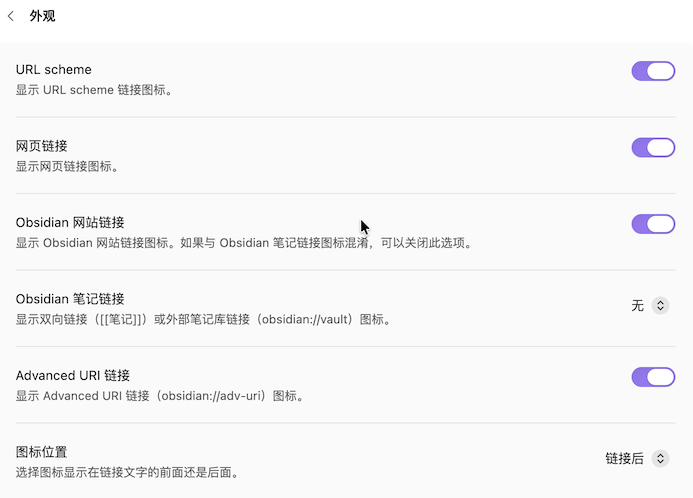
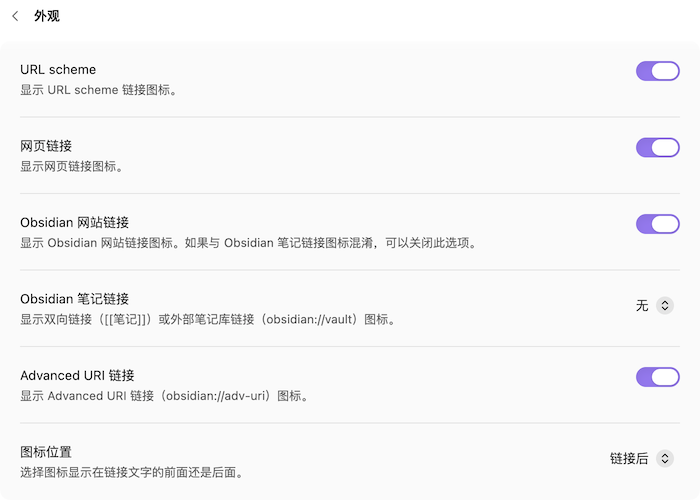
docs: update README

diff --git a/docs/README_zh.md b/docs/README_zh.md
@@ -91,19 +91,16 @@
 
 ### 编辑图标
 - 你可以点击图标旁边的下载按钮来下载图标。
-- 如果你误将暗色图标上传到亮色区域，`复制到暗色` 将派上用场。
-- 如果用不到暗色图标，你可以单独删除它。
+- 如果你误将暗色图标上传到亮色区域，`复制到暗色` 按钮将派上用场。
+- 如果用不到暗色图标，你可以使用 `移除` 按钮删除它。
 
 ![edit-icon_zh.png](images/edit-icon_zh.png)
 
 ## 设置
-默认情况下，URL Scheme 和网站图标均已启用。你可以在插件设置中禁用其中任意一项。
-
-插件提供了两种不同的 Obsidian 图标，帮助用户更好地区分 Obsidian 网站链接和笔记链接。
-
-Obsidian 笔记链接图标默认关闭。你可以启用 _双链_、_外链_，或两者都启用，也可以完全关闭 — 取决于你的工作流。
-
-你可以自定义图标位置（在链接前面或者后面），以确保跟其他插件（例如 Iconize）保持一致。
+- 默认情况下，URL Scheme 和网站图标均已启用。你可以在插件设置中禁用其中任意一项。
+- 插件提供了两种不同的 Obsidian 图标，以帮助用户更好地区分 Obsidian 网站链接和笔记链接。
+- Obsidian 笔记链接图标默认关闭。你可以启用 _双链_、_外链_，或两者都启用，也可以完全关闭 — 取决于你的工作流。
+- 你可以自定义图标位置（在链接前面或者后面），以确保跟其他插件（例如 Iconize）保持一致。
 
 ![setting_zh.png](images/setting_zh.png)
 

diff --git a/README.md b/README.md
@@ -97,13 +97,10 @@ To add a custom icon, click **Add Website** or **Add URL Scheme** in the setting
 ![edit-icon.png](docs/images/edit-icon.png)
 
 ### Setting
-By default, both URL Scheme and WebSite icon are enabled. You could disable any of them in the plugin setting.
-
-There are two different Obsidian icons to help users better distinguish between Obsidian web links and note links.
-
-Obsidian Note Link icon is disabled by default. You can enable either _internal link_, _external link_, or both, or disable them entirely — it all depends on your workflow.
-
-You can customize the icon position (before or after the link), ensuring consistency with other plugins like Iconize. 
+- By default, both URL Scheme and WebSite icon are enabled. You could disable any of them in the plugin setting.
+- There are two different Obsidian icons to help users better distinguish between Obsidian web links and note links.
+- Obsidian Note Link icon is disabled by default. You can enable either _internal link_, _external link_, or both, or disable them entirely — it all depends on your workflow. 
+- You can customize the icon position (before or after the link), ensuring consistency with other plugins like Iconize. 
 
 ![setting](docs/images/setting.png)
 